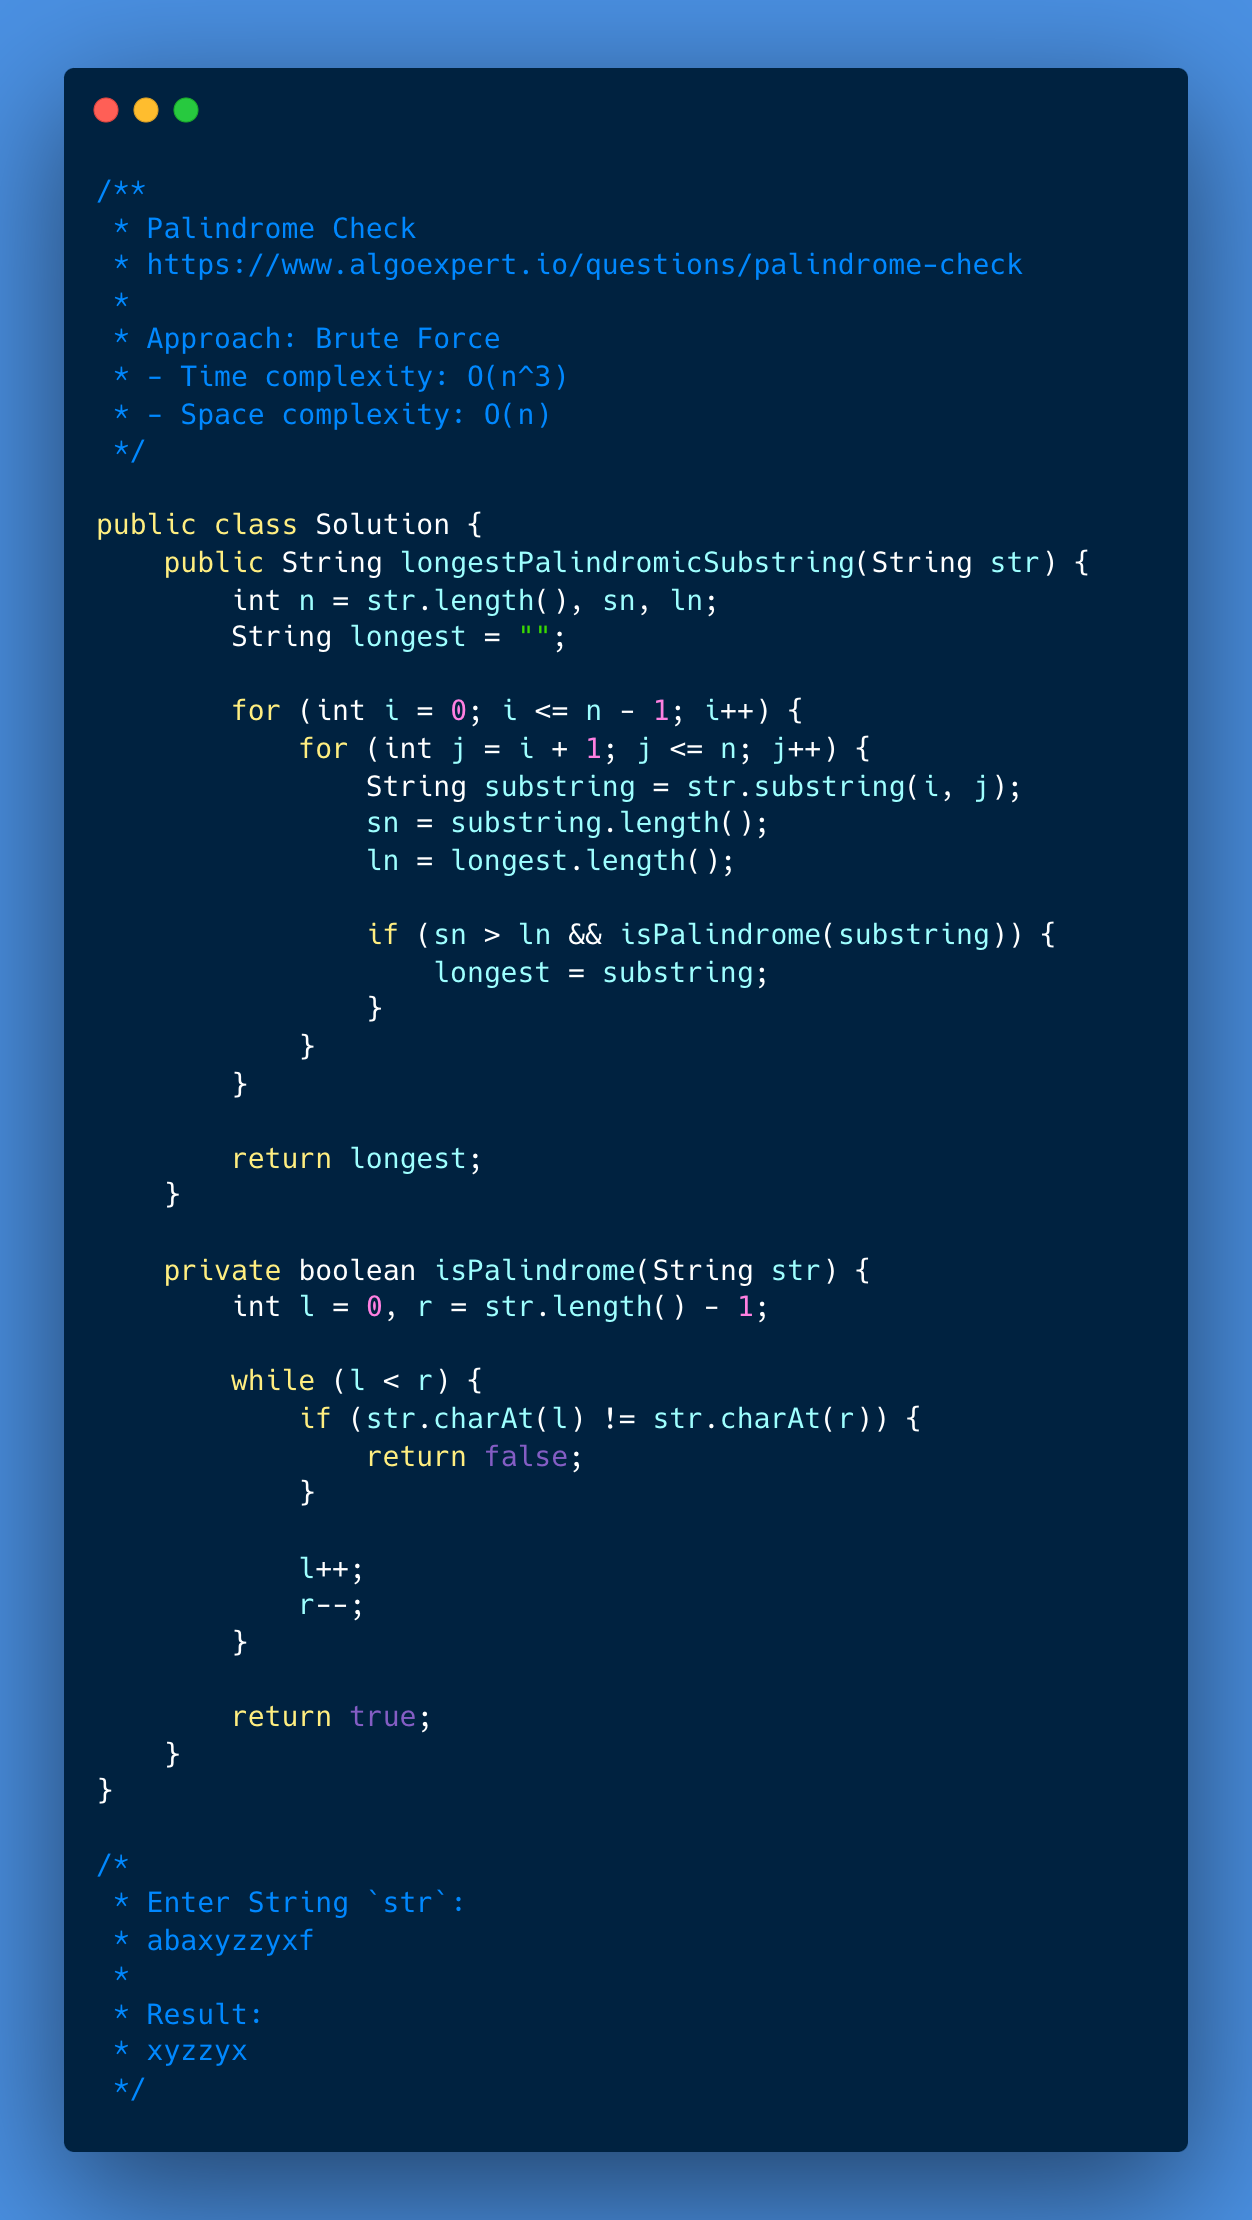
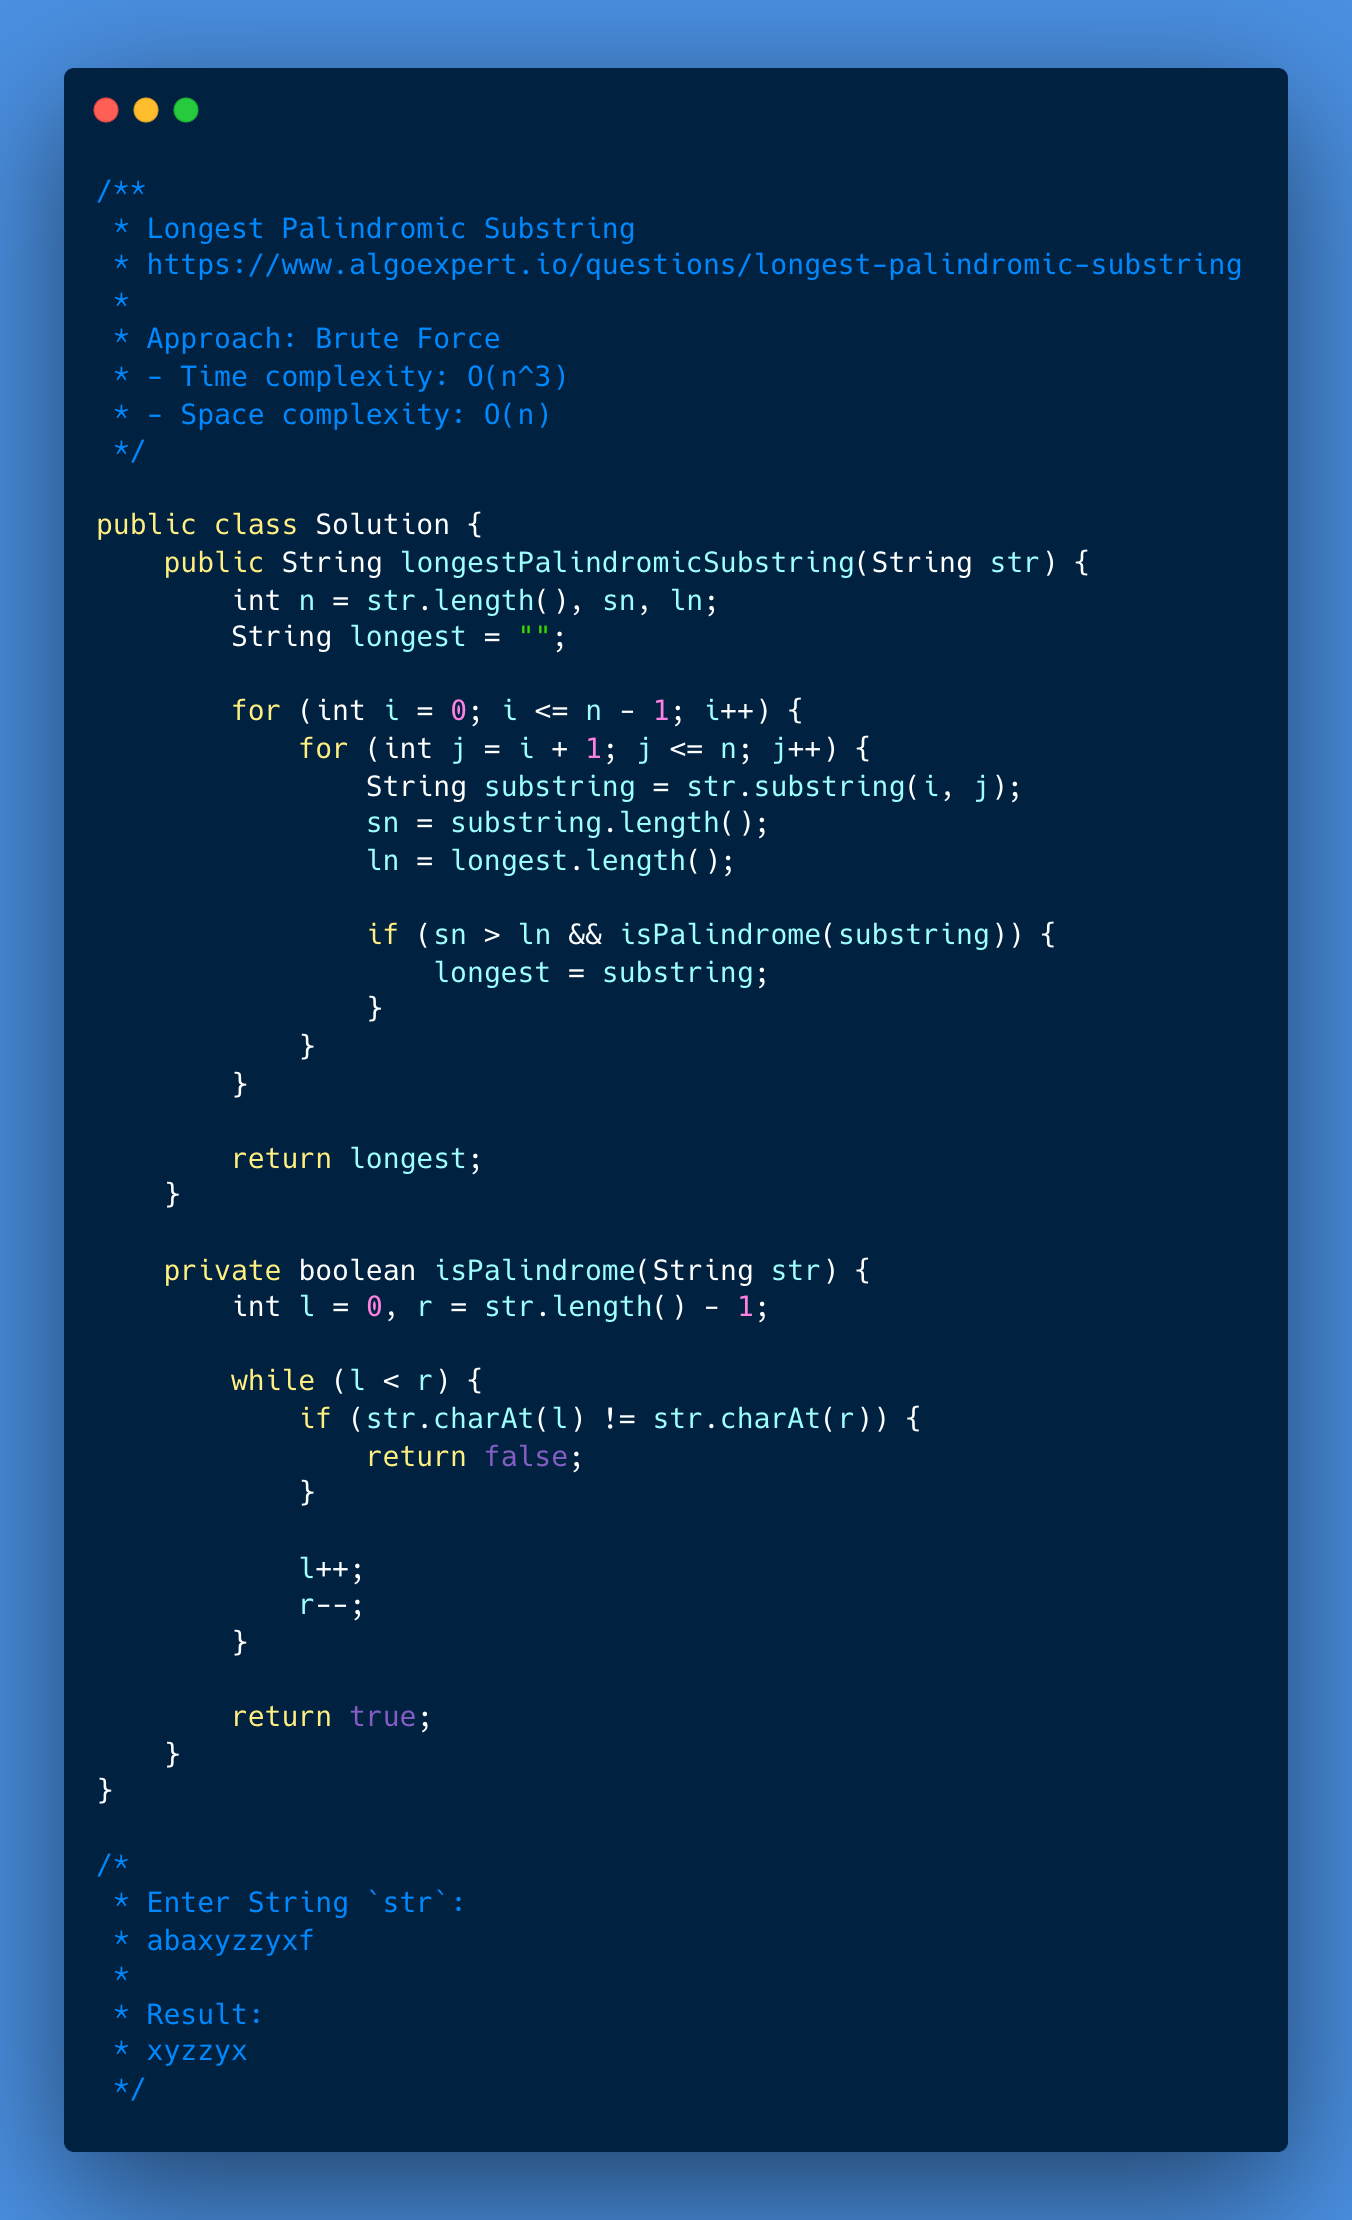
Solve Problem: Longest Palindromic Substring

diff --git a/159-longest-palindromic-substring/002-solution/Solution.java b/159-longest-palindromic-substring/002-solution/Solution.java
@@ -1,0 +1,63 @@
+/**
+ * Longest Palindromic Substring
+ * https://www.algoexpert.io/questions/longest-palindromic-substring
+ * 
+ * Approach: Optimal
+ * - Time complexity: O(n^2)
+ * - Space complexity: O(n)
+ */
+
+public class Solution {
+    public String longestPalindromicSubstring(String str) {
+        int[] longest = { 0, 1 };
+        for (int i = 1; i <= str.length() - 1; i++) {
+            int longestDiff = longest[1] - longest[0];
+
+            int[] odd = getLongestPalindrome(str, i - 1, i + 1);
+            int oddDiff = odd[1] - odd[0];
+
+            int[] even = getLongestPalindrome(str, i - 1, i);
+            int evenDiff = even[1] - even[0];
+
+            int[] current;
+            int currentDiff;
+
+            if (oddDiff > evenDiff) {
+                current = odd;
+                currentDiff = oddDiff;
+            } else {
+                current = even;
+                currentDiff = evenDiff;
+            }
+
+            if (currentDiff > longestDiff) {
+                longest = current;
+            }
+        }
+
+        return str.substring(longest[0], longest[1]);
+    }
+
+    private int[] getLongestPalindrome(String str, int l, int r) {
+        while (l >= 0 && r <= str.length() - 1) {
+            if (str.charAt(l) != str.charAt(r)) {
+                break;
+            }
+
+            l--;
+            r++;
+        }
+
+        int[] longest = { l + 1, r };
+
+        return longest;
+    }
+}
+
+/*
+ * Enter String `str`:
+ * abaxyzzyxf
+ * 
+ * Result:
+ * xyzzyx
+ */

diff --git a/159-longest-palindromic-substring/002-solution/Main.java b/159-longest-palindromic-substring/002-solution/Main.java
@@ -1,0 +1,22 @@
+import java.util.*;
+
+public class Main {
+    public static void main(String[] args) {
+        Scanner sc = new Scanner(System.in);
+
+        // Input
+        System.out.println("Enter String `str`: ");
+        String str = sc.nextLine();
+
+        // Solution
+        Solution solution = new Solution();
+        String result = solution.longestPalindromicSubstring(str);
+
+        // Output
+        System.out.println();
+        System.out.println("Result:");
+        System.out.println(result);
+
+        sc.close();
+    }
+}

diff --git a/159-longest-palindromic-substring/001-solution/Solution.java b/159-longest-palindromic-substring/001-solution/Solution.java
@@ -1,6 +1,6 @@
 /**
- * Palindrome Check
- * https://www.algoexpert.io/questions/palindrome-check
+ * Longest Palindromic Substring
+ * https://www.algoexpert.io/questions/longest-palindromic-substring
  * 
  * Approach: Brute Force
  * - Time complexity: O(n^3)
